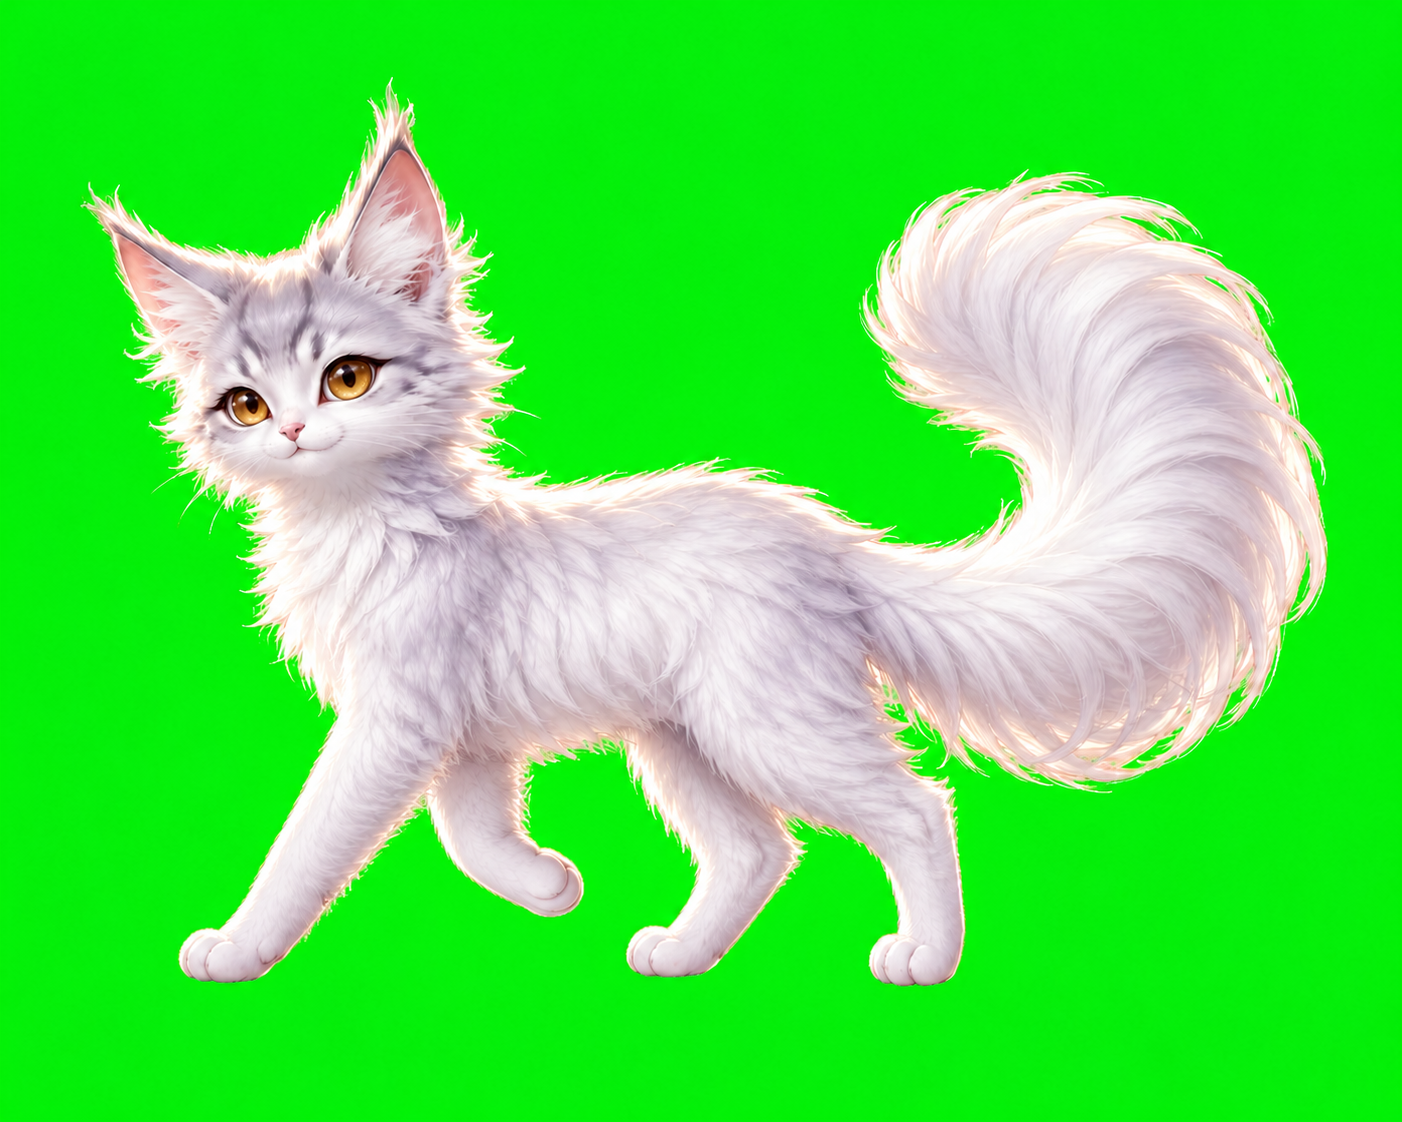
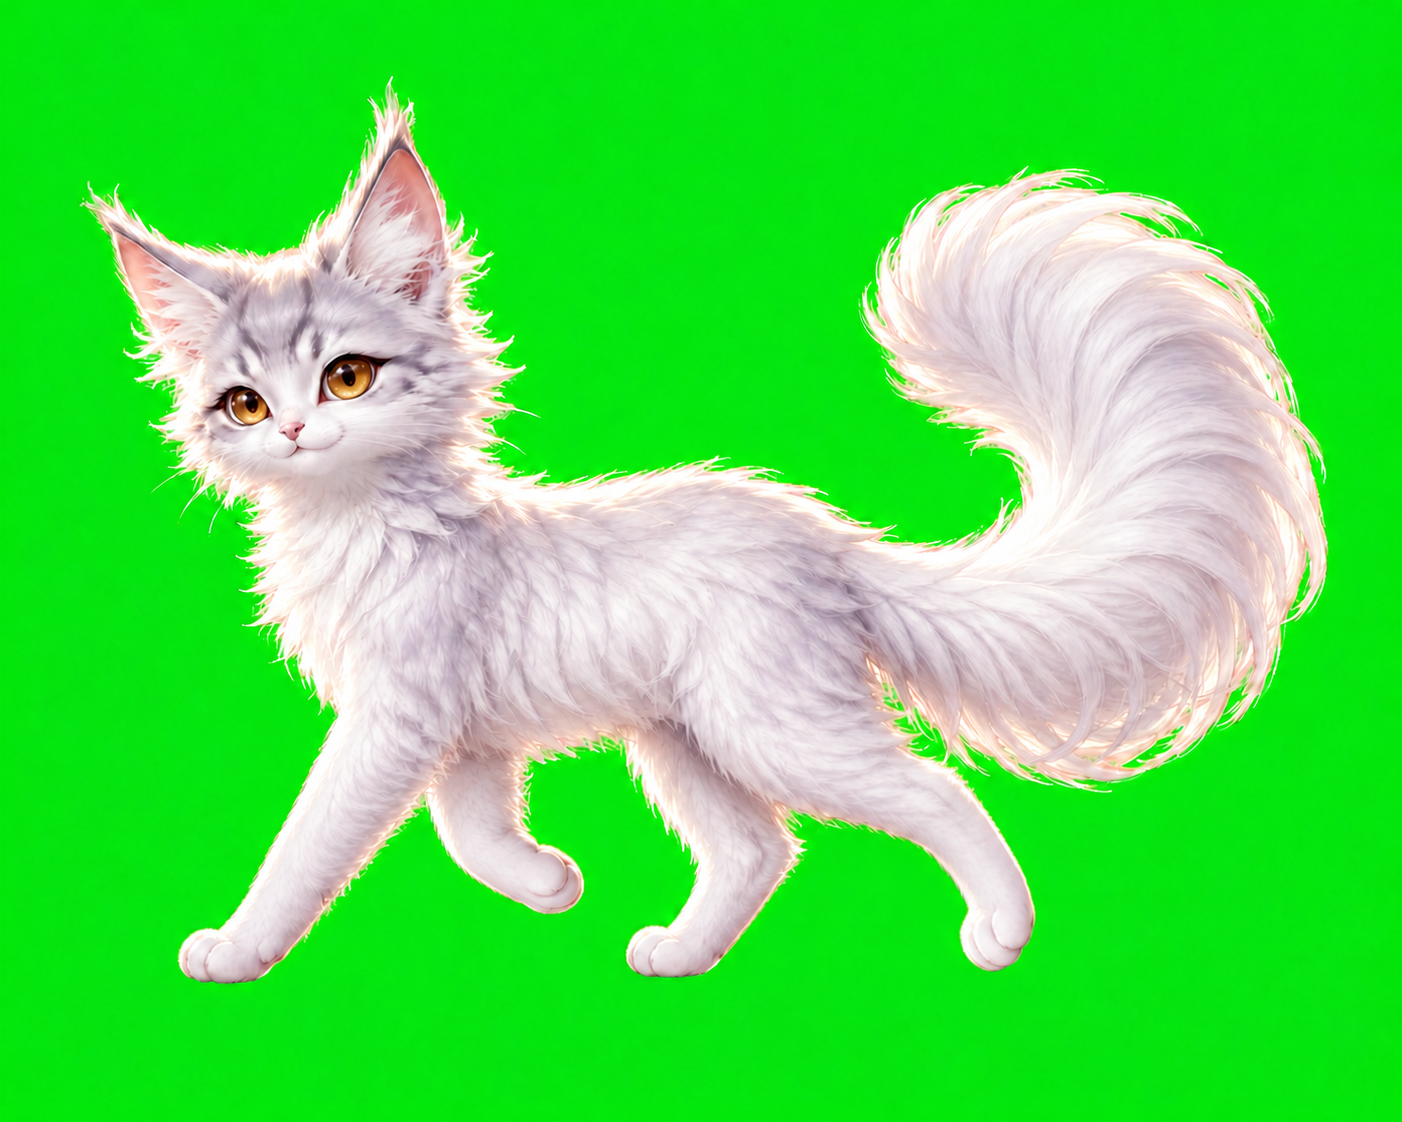
Add files via upload

diff --git a/README.md b/README.md
@@ -2,7 +2,7 @@
 
 一只住在 SillyTavern 页面里的银白猫狐。糯叽会听你说话、陪模型思考、迎接新回复，也可以被拖到屏幕上任意位置——但我们不把她喂成可露丽那么胖。
 
-这是 GPT × Ripple 一起搓、经 Fable51 工程审校的会眨眼、会甩尾、会明显动耳、会趴下、会缩成咕噜噜毛团，也会真正交替迈爪换个地方陪你的 `v0.8.1`。
+这是 GPT × Ripple 一起搓、经 Fable51 工程审校的会眨眼、会甩尾、会明显动耳、会趴下、会缩成咕噜噜毛团，也会四只爪一起交替迈步来陪你的 `v0.8.2`。
 
 ![糯叽的八种首版状态](docs/state-preview.png)
 

diff --git a/CHANGELOG.md b/CHANGELOG.md
@@ -1,5 +1,11 @@
 # 更新记录
 
+## 0.8.2
+
+- 修复第二步态中最靠近尾巴的后脚始终踩在同一位置、看起来像被钉在地上的问题
+- 该后脚现在会在交替帧里完整离地并向后蹬，四只爪全部参与步态循环
+- 只重绘漏动的后腿，保持糯叽的脸、身体、另外三只爪、大尾巴、画布位置与巡游逻辑不变
+
 ## 0.8.1
 
 - 修复侧身巡游时四只爪子保持不动、整只糯叽像贴纸漂移的问题
